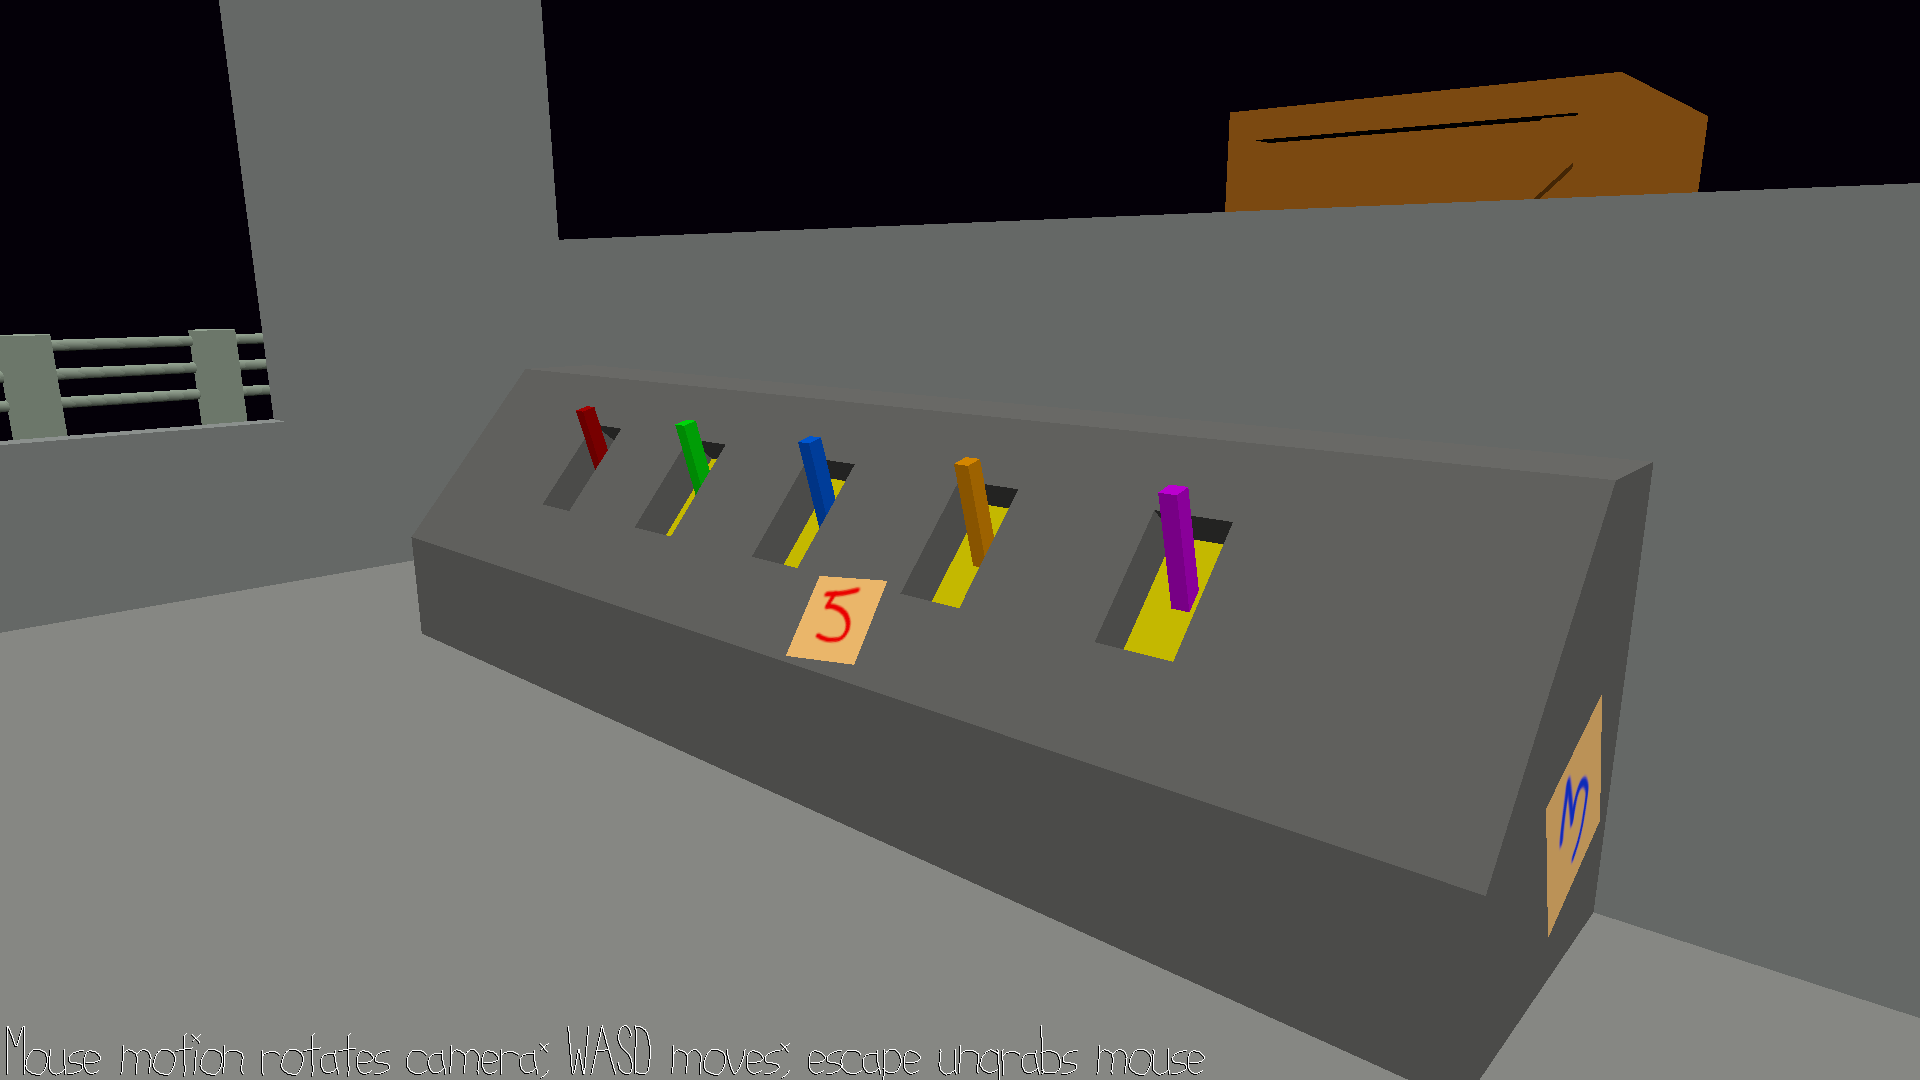
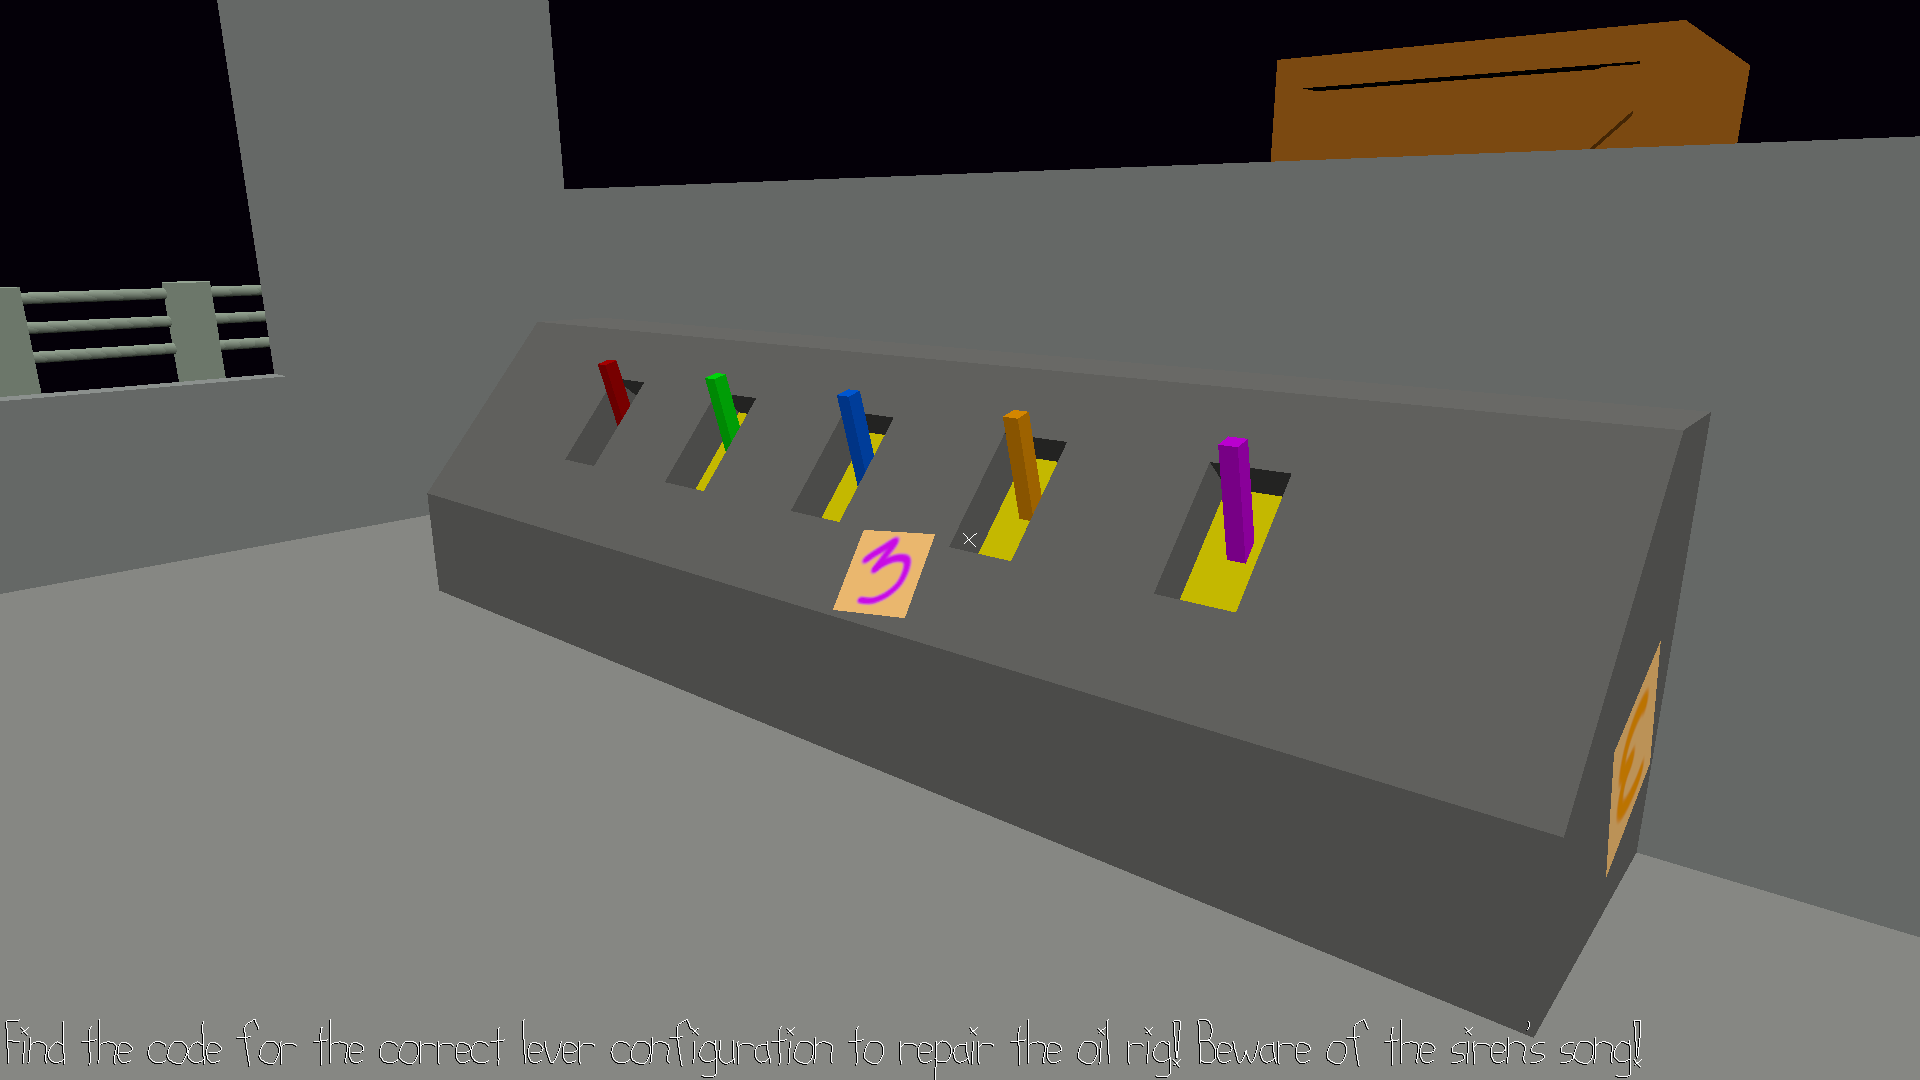
README.md, qol text

diff --git a/PlayMode.cpp b/PlayMode.cpp
@@ -333,6 +333,9 @@ bool PlayMode::handle_event(SDL_Event const &evt, glm::uvec2 const &window_size)
 			interact.downs = 1;
 			interact.pressed = true;
 			return true;
+		} else if (evt.key.key == SDLK_R) {
+			Sound::stop_all_samples();
+			return false;
 		}
 	} else if (evt.type == SDL_EVENT_KEY_UP) {
 		if (evt.key.key == SDLK_A) {
@@ -390,20 +393,19 @@ void PlayMode::update(float elapsed) {
 		static bool done_dead = false;
 		if (!done_dead) {
 			Sound::stop_all_samples();
-			std::cout << "You died!" << std::endl;
 			done_dead = true;
-			return;
 		}
+		return;
 	}
 	else if (player.win) {
 		static bool done_win = false;
 		if(!done_win) {
 			Sound::stop_all_samples();
-			std::cout << "You repaired the oil rig!" << std::endl;
 			done_win = true;
-			return;
 		}
+		return;
 	}
+
 	{ //update listener to camera position:
 		glm::mat4x3 frame = camera->transform->make_parent_from_local();
 		glm::vec3 frame_right = frame[0];
@@ -504,7 +506,7 @@ void PlayMode::update(float elapsed) {
 				if (col == &player.col) continue;
 				glm::vec3 tmp_siren = to_siren;
 				if (player.col.clip_movement(*col, to_siren, dist) && 
-					mag_to_siren <= 15.f &&
+					mag_to_siren <= 25.f &&
 					((tmp_siren.x - to_siren.x > .75f) || tmp_siren.y - to_siren.y > .75f || tmp_siren.z - to_siren.z > .75f)) {
 					player.dead = true;
 					return;
@@ -533,7 +535,7 @@ void PlayMode::update(float elapsed) {
 	);
 	{ // check if player is hoving for purpose of pop-up
 		for (auto &lever : levers) {
-			glm::vec3 to = (lever.drawable->transform->make_world_from_local() * glm::vec4(lever.drawable->transform->position + lever.offset, 1.f) 
+			glm::vec3 to = ((lever.drawable->transform->make_world_from_local() * glm::vec4(lever.drawable->transform->position, 1.f) + lever.offset) 
 				- player.transform.make_world_from_local() * glm::vec4(camera->transform->position, 1.f));
 		
 			if (glm::length(to) <= player.INTERACT_RANGE) {
@@ -555,7 +557,7 @@ void PlayMode::update(float elapsed) {
 			float closest_resp = 100.f;
 			for (auto &lever : levers) {
 				assert(lever.drawable->transform);
-				glm::vec3 to = (lever.drawable->transform->make_world_from_local() * glm::vec4(lever.drawable->transform->position + lever.offset, 1.f) 
+				glm::vec3 to = ((lever.drawable->transform->make_world_from_local() * glm::vec4(lever.drawable->transform->position, 1.f) + lever.offset) 
 					- player.transform.make_world_from_local() * glm::vec4(camera->transform->position, 1.f));
 
 				if (glm::length(to) <= player.INTERACT_RANGE) {
@@ -599,11 +601,11 @@ void PlayMode::update(float elapsed) {
 
 		float angle = angle_dist(rng);
 		float radius = radius_dist(rng);
-		SoundManager::play_sfx_3D(rig_samples, 15.f, elapsed, 7.5f * glm::vec3(std::cosf(angle), radius / 17.5f, std::sinf(angle)), 1000.f, 10.f, .1f * sound_muffler);
+		SoundManager::play_sfx_3D(rig_samples, 15.f, elapsed, 7.5f * glm::vec3(std::cosf(angle), radius / 17.5f, std::sinf(angle)), 1000.f, 11.f, .1f * sound_muffler);
 
 		angle = angle_dist(rng);
 		radius = radius_dist(rng);
-		SoundManager::play_sfx_3D(wind_samples, 7.f, elapsed, 35.f * glm::vec3(std::cosf(angle), radius / 35.f * 3.f, std::sinf(angle)), 1000.f, 10.f, .5f * sound_muffler);
+		SoundManager::play_sfx_3D(wind_samples, 12.f, elapsed, 35.f * glm::vec3(std::cosf(angle), radius / 35.f * 3.f, std::sinf(angle)), 1000.f, 10.f, .5f * sound_muffler);
 		
 		angle = angle_dist(rng);
 		radius = radius_dist(rng);
@@ -652,25 +654,112 @@ void PlayMode::draw(glm::uvec2 const &drawable_size) {
 		));
 
 		constexpr float H = 0.09f;
-		lines.draw_text("Mouse motion rotates camera; WASD moves; escape ungrabs mouse",
-			glm::vec3(-aspect + 0.1f * H, -1.0 + 0.1f * H, 0.0),
-			glm::vec3(H, 0.0f, 0.0f), glm::vec3(0.0f, H, 0.0f),
+		lines.draw_text("Find the code for the correct lever configuration to repair the oil rig! Beware of the siren's song!",
+			glm::vec3(-aspect + 0.1f * H, -.98 + 0.1f * H, 0.0),
+			glm::vec3(H * .9f, 0.0f, 0.0f), glm::vec3(0.0f, H  * .9f, 0.0f),
 			glm::u8vec4(0x00, 0x00, 0x00, 0x00));
 		float ofs = 2.0f / drawable_size.y;
-		lines.draw_text("Mouse motion rotates camera; WASD moves; escape ungrabs mouse",
-			glm::vec3(-aspect + 0.1f * H + ofs, -1.0 + 0.1f * H + ofs, 0.0),
-			glm::vec3(H, 0.0f, 0.0f), glm::vec3(0.0f, H, 0.0f),
+		lines.draw_text("Find the code for the correct lever configuration to repair the oil rig! Beware of the siren's song!",
+			glm::vec3(-aspect + 0.1f * H + ofs, -.98 + 0.1f * H + ofs, 0.0),
+			glm::vec3(H * .9f, 0.0f, 0.0f), glm::vec3(0.0f, H * .9f, 0.0f),
 			glm::u8vec4(0xff, 0xff, 0xff, 0x00));
 
-		// draw crosshair
-		lines.draw_text("HELLO",
-			glm::vec3(-aspect * 2.f, -1.0f, 0.0),
-			glm::vec3(0.f, 0.0f, 0.0f), glm::vec3(0.0f, 0.f, 0.0f),
-			glm::u8vec4(0x00, 0x00, 0x00, 0x00));
-		lines.draw_text("HELLO",
-			glm::vec3(ofs, ofs, 0.0),
-			glm::vec3(0.f, 0.0f, 0.0f), glm::vec3(0.0f, 0.f, 0.0f),
-			glm::u8vec4(0xff, 0xff, 0xff, 0xff));
+		static size_t frame = 0;
+		static bool flip = true;
+		if (frame == 0) {
+			flip = !flip;
+		}
+		frame = (frame + 1) % 15;
+
+		if (player.dead) {
+			lines.draw_text("The Song Claimed You.",
+				glm::vec3(-H * 8.f, 0.f, 0.0),
+				glm::vec3(H * 2.f, 0.0f, 0.0f), glm::vec3(0.0f, H * 2.f, 0.0f),
+				glm::u8vec4(0x00, 0x00, 0x00, 0x00));
+			lines.draw_text("The Song Claimed You.",
+				glm::vec3(ofs - H * 8.f, ofs, 0.0),
+				glm::vec3(H * 2.f, 0.0f, 0.0f), glm::vec3(0.0f, H * 2.f, 0.0f),
+				glm::u8vec4(0xff, 0x00, 0x00, 0xff));
+			lines.draw_text("R - Restart",
+				glm::vec3(-.2, -.2f, 0.0),
+				glm::vec3(H, 0.0f, 0.0f), glm::vec3(0.0f, H, 0.0f),
+				glm::u8vec4(0x0, 0x0, 0x0, 0x00));
+			lines.draw_text("R - Restart",
+				glm::vec3(ofs -.2, ofs -.2f, 0.0),
+				glm::vec3(H, 0.0f, 0.0f), glm::vec3(0.0f, H, 0.0f),
+				glm::u8vec4(0xff, 0xff, 0xff, 0xff));
+
+			lines.draw_text("Q - Quit",
+				glm::vec3(-.15, -.35, 0.0),
+				glm::vec3(H, 0.0f, 0.0f), glm::vec3(0.0f, H, 0.0f),
+				glm::u8vec4(0x0, 0x0, 0x0, 0x00));
+			lines.draw_text("Q - Quit",
+				glm::vec3(ofs -.15, ofs - .35f, 0.0),
+				glm::vec3(H, 0.0f, 0.0f), glm::vec3(0.0f, H, 0.0f),
+				glm::u8vec4(0xff, 0xff, 0xff, 0xff));
+
+		} else if (player.win) {
+			lines.draw_text("You Repaired the Oil Rig!",
+				glm::vec3(-H * 9.f, 0.f, 0.0),
+				glm::vec3(H * 2.f, 0.0f, 0.0f), glm::vec3(0.0f, H * 2.f, 0.0f),
+				glm::u8vec4(0x00, 0x00, 0x00, 0x00));
+			lines.draw_text("You Repaired the Oil Rig!",
+				glm::vec3(ofs - H * 9.f, ofs, 0.0),
+				glm::vec3(H * 2.f, 0.0f, 0.0f), glm::vec3(0.0f, H * 2.f, 0.0f),
+				glm::u8vec4(0x00, 0xff, 0xff, 0xff));
+			lines.draw_text("R - Play Again",
+				glm::vec3(-.2, -.2f, 0.0),
+				glm::vec3(H, 0.0f, 0.0f), glm::vec3(0.0f, H, 0.0f),
+				glm::u8vec4(0x0, 0x0, 0x0, 0x00));
+			lines.draw_text("R - Play Again",
+				glm::vec3(ofs -.2, ofs -.2f, 0.0),
+				glm::vec3(H, 0.0f, 0.0f), glm::vec3(0.0f, H, 0.0f),
+				glm::u8vec4(0xff, 0xff, 0xff, 0x00));
+
+			lines.draw_text("Q - Quit",
+				glm::vec3(-.15, -.35, 0.0),
+				glm::vec3(H, 0.0f, 0.0f), glm::vec3(0.0f, H, 0.0f),
+				glm::u8vec4(0x0, 0x0, 0x0, 0x00));
+			lines.draw_text("Q - Quit",
+				glm::vec3(ofs -.15, ofs - .35f, 0.0),
+				glm::vec3(H, 0.0f, 0.0f), glm::vec3(0.0f, H, 0.0f),
+				glm::u8vec4(0xff, 0xff, 0xff, 0x00));
+
+		}
+		else if (siren.active && player.get_disenchanted_timer() <= 0.f) {
+			if (flip) {
+				lines.draw_text("SPACE",
+					glm::vec3(-H, 0.f, 0.0),
+					glm::vec3(H, 0.0f, 0.0f), glm::vec3(0.0f, H, 0.0f),
+					glm::u8vec4(0x00, 0x00, 0x00, 0x00));
+				lines.draw_text("SPACE",
+					glm::vec3(ofs - H, ofs, 0.0),
+					glm::vec3(H, 0.0f, 0.0f), glm::vec3(0.0f, H, 0.0f),
+					glm::u8vec4(0xff, 0xff, 0xff, 0x00));
+			}
+		}
+		else if (player.get_enchanted() < player.MIN_TO_ENCHANT_STATUS)  {
+			// draw crosshair
+			constexpr float Cursor_size = .15f;
+			lines.draw_text(".",
+				glm::vec3(0.f, 0.f, 0.0),
+				glm::vec3(Cursor_size, 0.0f, 0.0f), glm::vec3(0.0f, Cursor_size, 0.0f),
+				glm::u8vec4(0x00, 0x00, 0x00, 0x00));
+			lines.draw_text(".",
+				glm::vec3(0.f, 0.f, 0.0),
+				glm::vec3(Cursor_size, 0.0f, 0.0f), glm::vec3(0.0f, Cursor_size, 0.0f),
+				glm::u8vec4(0xff, 0xff, 0xff, 0xff));
+			if (player.is_hovering) {
+				lines.draw_text("F - interact", 
+					glm::vec3(-H, -.9f * H, 0.0),
+					glm::vec3(H * .625f, 0.0f, 0.0f), glm::vec3(0.0f, H * .625f, 0.0f),
+					glm::u8vec4(0x00, 0x00, 0x00, 0x00));
+				lines.draw_text("F - interact",
+					glm::vec3(ofs - H, -.9f * H + ofs, 0.0),
+					glm::vec3(H * .625f, 0.0f, 0.0f), glm::vec3(0.0f, H * .625, 0.0f),
+					glm::u8vec4(0xff, 0xff, 0xff, 0xff));
+			}
+		}
 		
 		// world drawing for physics debugging.
 		/*

diff --git a/PlayMode.hpp b/PlayMode.hpp
@@ -42,7 +42,7 @@ struct PlayMode : Mode {
 
 		Collider col = Collider(&transform);
 
-		float INTERACT_RANGE = 6.f;
+		float INTERACT_RANGE = 3.f;
 		const float MIN_TO_ENCHANT_STATUS = .25f;
 		bool dead = false;
 		bool win = false;
@@ -58,7 +58,7 @@ struct PlayMode : Mode {
 
 		private:
 			float enchanted = 0.f;
-			float DISENCHANT_COOLDOWN = 4.0f;
+			float DISENCHANT_COOLDOWN = 3.0f;
 			float time_until_can_disenchant = 0.f;
 
 	} player;
@@ -81,7 +81,7 @@ struct PlayMode : Mode {
 
 		private:
 			float MAX_VOLUME = .25f;
-			float ACTIVATE_COOLDOWN = 30.f;
+			float ACTIVATE_COOLDOWN = 15.f;
 			float time_until_active = 10.f;
 	} siren;
 	

diff --git a/Interactable.hpp b/Interactable.hpp
@@ -5,9 +5,9 @@
 
 struct Interactable {
     Scene::Drawable *drawable;   
-    glm::vec3 offset = glm::vec3(0.f, 0.f, 1.f);
+    glm::vec3 offset = glm::vec3(0.f, 0.f, -.25f);
 
-    float interact_angle = glm::radians(12.5f);
+    float interact_angle = glm::radians(10.f);
     virtual void interact() {
         std::cout << "Interaction not yet implemented!" << std::endl;
     };

diff --git a/README.md b/README.md
@@ -1,15 +1,39 @@
-# (TODO: your game's title)
+# Night Shift on the Oil Rig
 
-Author: (TODO: your name)
+### Author: Matthew Largo
 
-Design: (TODO: In two sentences or fewer, describe what is new and interesting about your game.)
-
-Screen Shot:
+### A code-finding, repair-the-object, puzzle-ish game, but you are a night shift worker on an oil rig who fulfill his duty without being claimed by the siren's alluring song at all costs.
 
 ![Screen Shot](screenshot.png)
 
-How To Play:
+## How To Play:
 
-(TODO: describe the controls and (if needed) goals/strategy.)
+### Controls:
 
+WASD - Move
+
+Mouse motion - Look around
+
+F - Interact
+
+Q - Quit the game
+
+R - Restart the game
+
+Space - Resist the Siren's song
+
+Escape - Ungrab the mouse
+
+### Objective:
+
+You were called in last minute to repair the oil rig which seems to have mysteriously malfunctioned. You cannot seem to remember the necessary lever configuration for this repair off the top of your head, but you and your co-workers placed hints around the rig in the event that would happen! Look around and determine what the appropriate configuration is! At all costs, do NOT give in to the siren's song.
+
+The siren will attempt to lure you in every so often with her song. Spam the spacebar to resist the it.
+
+
+<details>
+    <summary> Hints </summary>
+- Each lever has its own distinct color.
+- A lever in the upmost position is in its first state.
+</details>
 This game was built with [NEST](NEST.md).
